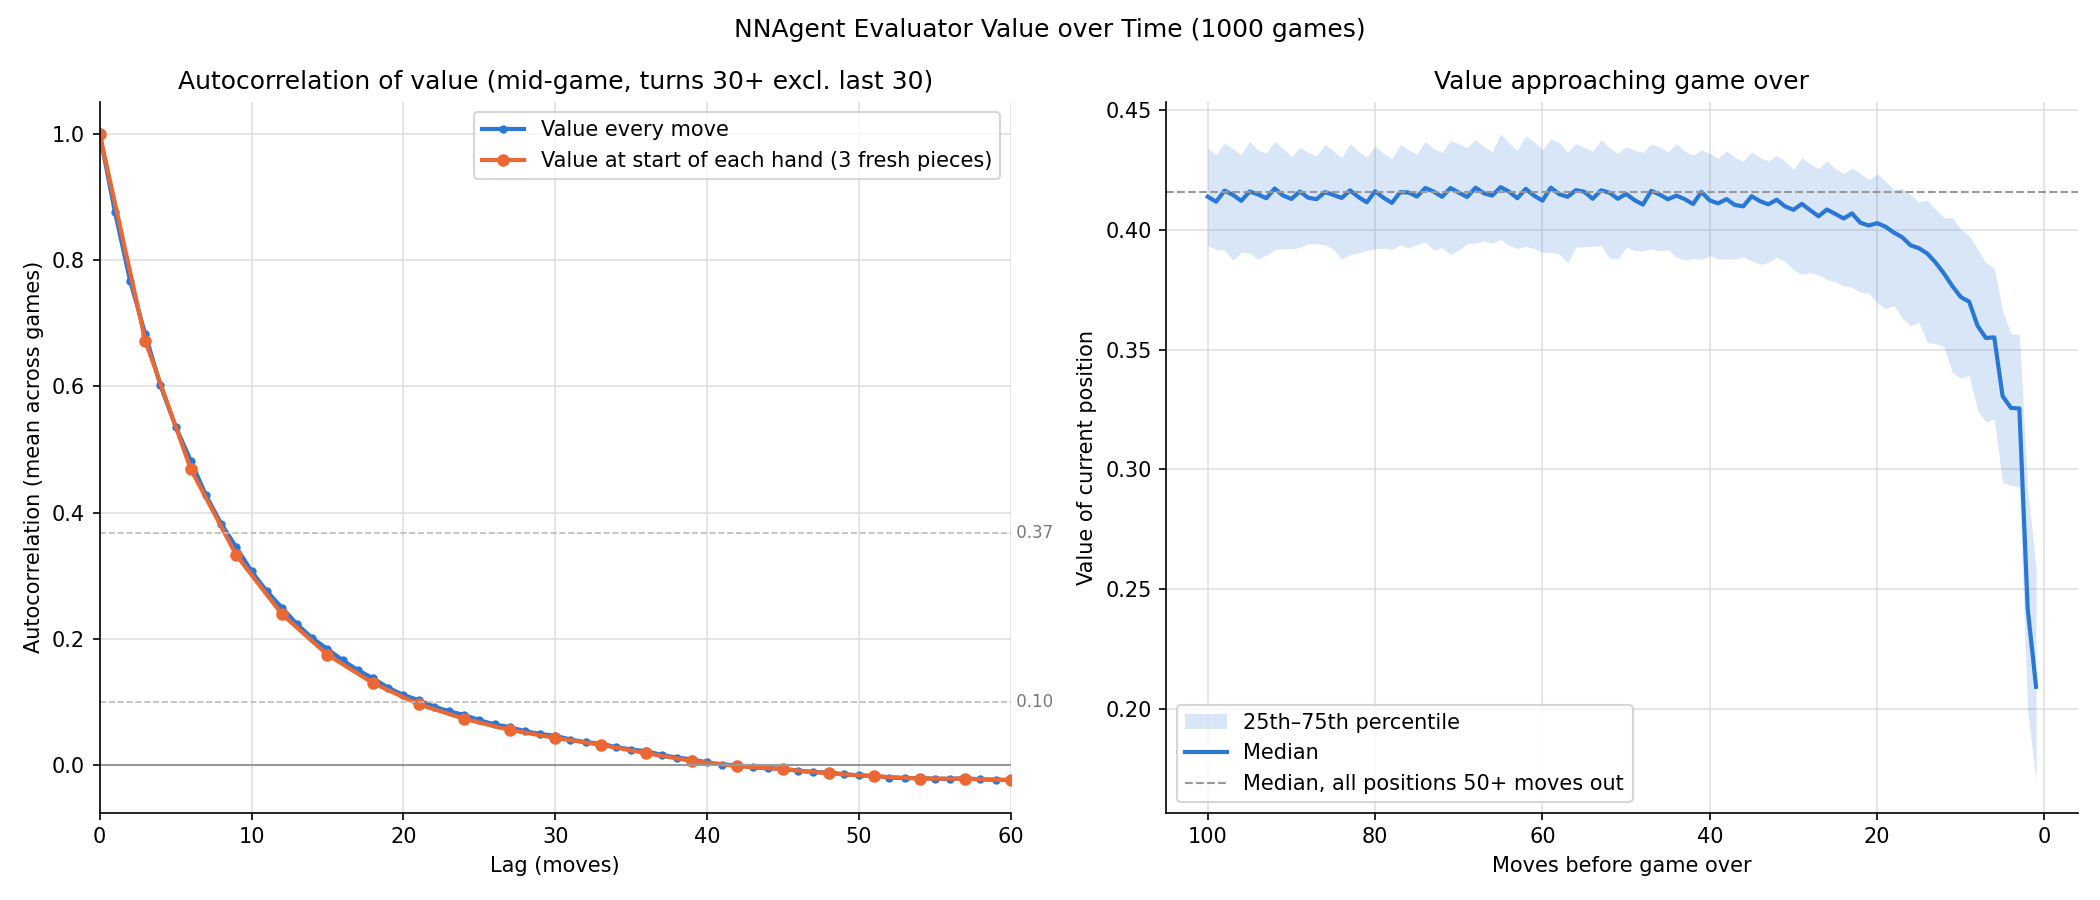
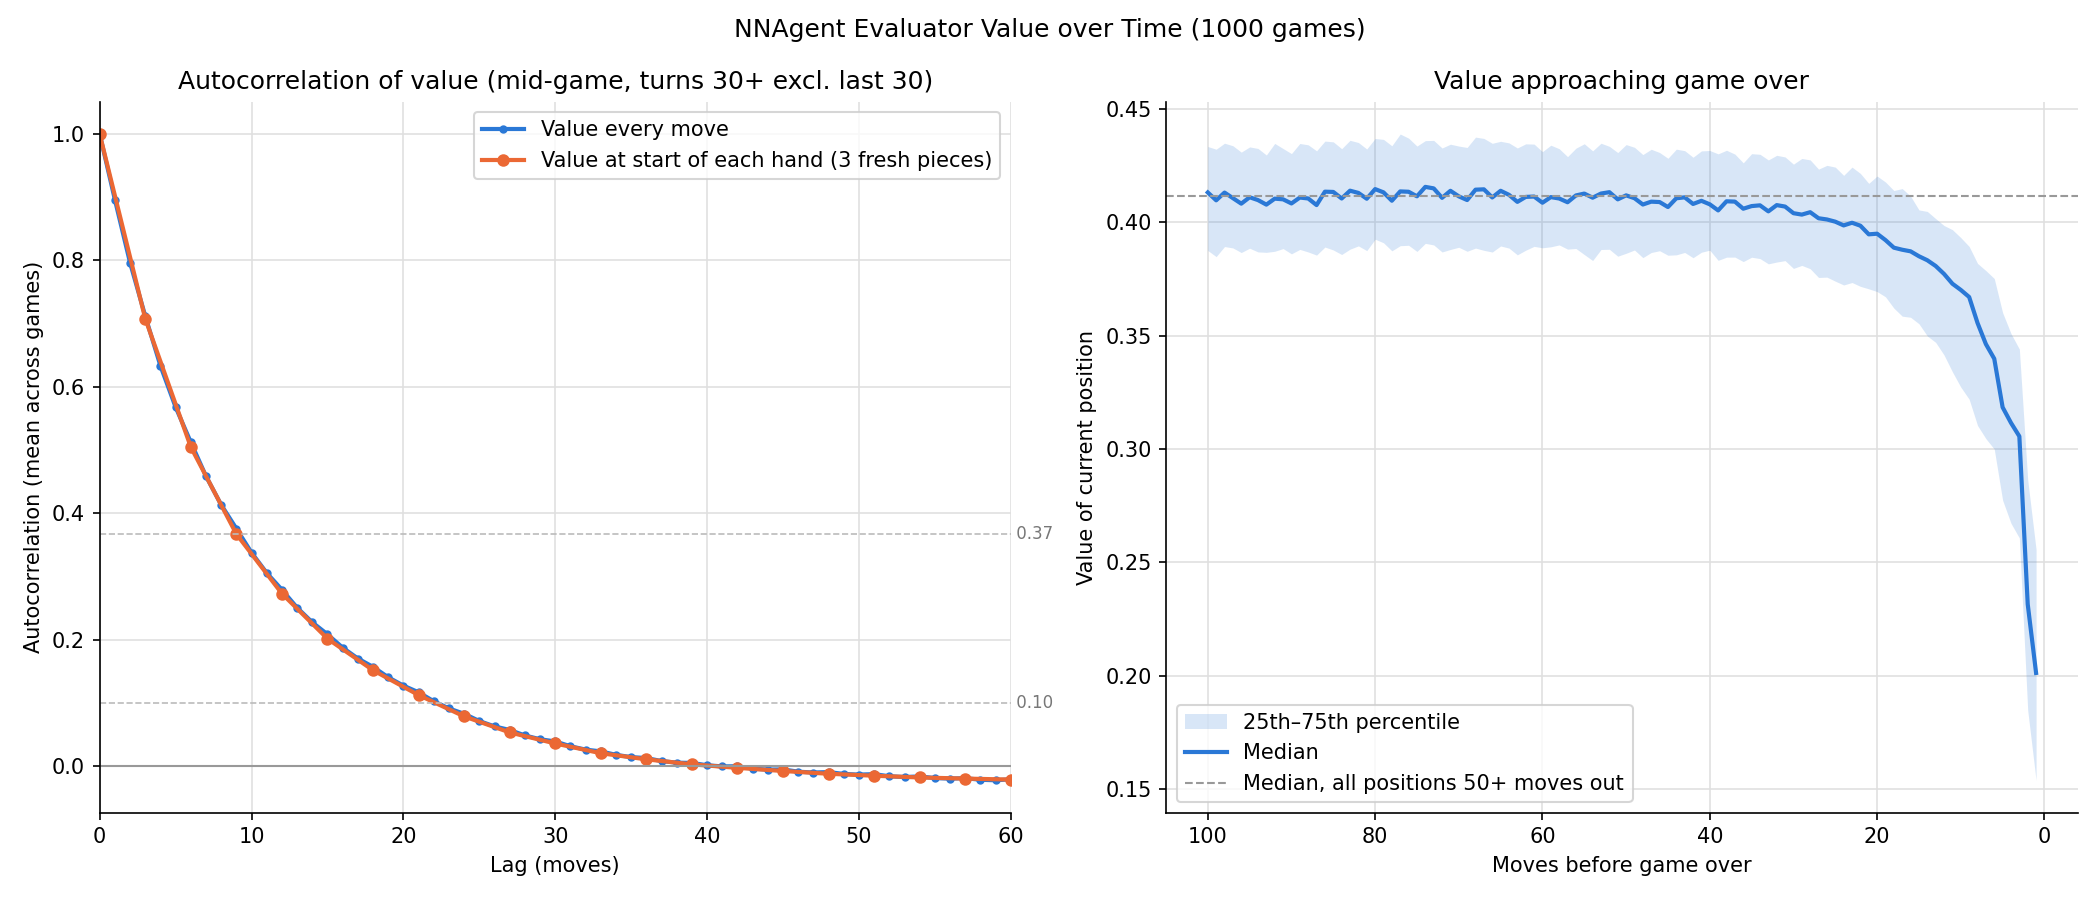
updated results without turn cap and full 10 generations of training

diff --git a/content/posts/tenten.md b/content/posts/tenten.md
@@ -72,8 +72,7 @@ I implemented a 1010!-style block puzzle in Python. The rules are:
 - It's game over when none of the pieces left in your hand fit anywhere.
 
 For scoring I've used **turns survived**, i.e. the number of pieces placed. The real game awards points for line
-clears, but survival is what actually matters and it keeps the analysis simple. The agent gets good enough that
-games are capped at 2000 turns, so it can't play forever.
+clears, but survival is what actually matters and it keeps the analysis simple.
 
 The 3-piece hand turns out to be quite important. It means every game runs in exact 3-move cycles, and you'll see
 that rhythm show up all over the results.
@@ -92,7 +91,7 @@ parameters.
 
 For training, a hand-written heuristic agent (which likes clearing lines and dislikes leaving holes) played the first
 batch of games. The network learned from those, overtook the heuristic after a single round, and from then on learned
-from its own games (self-play). The whole thing took ~2 hours on a laptop.
+from its own games (self-play). The whole thing took ~4 hours on a laptop.
 
 ### Unity - Python pipeline
 
@@ -163,7 +162,7 @@ system in a production build. This is an unofficial recreation made for research
   height="2000"
 >}}
 
-All the results below come from 1000 games played by the agent, 649,667 moves in total.
+All the results below come from 1000 games played by the agent, 911,503 moves in total.
 
 ### Agent training
 
@@ -171,19 +170,18 @@ Here's how the trained agent compares with the heuristic and with random play:
 
 | Agent | Games | Mean turns survived | Median | Best |
 |---|---|---|---|---|
-| Random | 500 | 19 | 19 | 44 |
-| Heuristic | 500 | 279 | 218 | 1244 |
-| **Neural network** | 1000 | **650** | **511** | **2000** (the cap) |
+| Random | 500 | 18.5 | 17 | 38 |
+| Heuristic | 500 | 283 | 209 | 1487 |
+| **Neural network** | 1000 | **912** | **634** | **6035** |
 
-So the network survives ~2.3× longer than the heuristic and ~34× longer than random play. That's pretty good for a
-network this small with no look-ahead. 36 of its 1000 games hit the 2000-turn cap, so if anything these numbers
-undersell it a little.
+So the network survives ~3.2× longer than the heuristic and ~49× longer than random play. That's pretty good for a
+network this small with no look-ahead.
 
 {{< lightbox src="/images/tenten/score_distribution.png" alt="Histogram of turns survived over 1000 games" >}}
 
 The spread of scores is interesting in its own right. It's heavily skewed: most games end within a few hundred
-turns, but there's a long tail running all the way out to the cap. The best fit is a Weibull distribution with a
-shape close to 1 (k = 1.15), which means an almost **constant risk of dying on every move**, however long the game
+turns, but there's a long tail running past 3000. The best fit, by a clear margin, is a Weibull distribution with a
+shape close to 1 (k = 1.10), which means an almost **constant risk of dying on every move**, however long the game
 has lasted. Every new hand is a fresh roll of the dice, another chance to be dealt something that doesn't fit. Keep
 that in mind, luck comes back later.
 
@@ -197,8 +195,8 @@ bands cover the middle 50%.
 
 A few things stand out:
 
-- **There's a lot of choice, but it can be narrowed down.** A typical board allows ~50 legal moves (5.7 bits), but the
-  agent only treats ~20 of them as serious candidates (4.35 bits). That feels like a good place for a puzzle game to
+- **There's a lot of choice, but it can be narrowed down.** A typical board allows ~53 legal moves (5.7 bits), but the
+  agent only treats ~22 of them as serious candidates (4.5 bits). That feels like a good place for a puzzle game to
   sit. It's far from obvious, but it's not an overwhelming Go-style wall of options either. And
   it's not the case that every move is as good as any other.
 - **It's remarkably flat.** After the opening (the empty board allows loads of moves), both entropies settle within
@@ -214,7 +212,7 @@ hand of 3 shaded:
 The legal moves (blue) follow a very regular sawtooth: the most freedom on the first piece of each hand, the least on
 the last. The agent (orange) is more interesting. There are one-off spikes down to ~0 bits where one move is clearly
 best (probably a line clear on offer), and longer troughs lasting several hands when the board gets tight, e.g. game
-308 around turns 35–58 and game 844 around turns 38–60.
+180 around turns 35–62 and game 814 around turns 33–53.
 
 {{< lightbox src="/images/tenten/action_entropy_hand_cycle.png" alt="Entropy by position in the 3-piece hand" >}}
 
@@ -222,8 +220,8 @@ Splitting this up by position in the hand makes the rhythm clear:
 
 | | 1st piece (3 in hand) | 2nd piece (2 in hand) | 3rd piece (1 in hand) |
 |---|---|---|---|
-| Legal moves | 6.44 bits | 5.93 bits | 4.91 bits |
-| Agent | 4.74 bits | 5.02 bits | 4.24 bits |
+| Legal moves | 6.52 bits | 6.00 bits | 4.95 bits |
+| Agent | 5.06 bits | 5.21 bits | 4.31 bits |
 
 The board's freedom pulses strongly with the hand, but the agent's decisions only weakly do. Having 3 pieces gives
 you more placements, but it doesn't make the decision harder, and the 2nd piece is actually the hardest call. My guess (untested) is that with 3 pieces the playing order
@@ -234,7 +232,7 @@ matters a lot, e.g. setting up a line clear, which makes one move stand out.
 {{< lightbox src="/images/tenten/value_autocorr.png" alt="Autocorrelation of the network's value, and value in the last 100 moves" >}}
 
 The left panel is the autocorrelation of the network's value. It drops below 1/e (a common "it's mostly forgotten"
-threshold) after **9 moves**, and is essentially gone by **~22 moves**. In other words, knowing a position is good or
+threshold) after **10 moves**, and is essentially gone by **~23 moves**. In other words, knowing a position is good or
 bad right now tells you very little about how things will look 6 hands later.
 
 The right panel shows the median value in the run-up to game over. It's flat until ~20–30 moves before the end and
@@ -246,14 +244,14 @@ Now for my favourite chart:
 {{< lightbox src="/images/tenten/value_recovery.png" alt="Chance of recovering from a bad position, and outcomes of dips" >}}
 
 On the left is the chance that a position gets back to a typical value before game over, plotted against how bad
-it is right now. On the right, for all 9351 dips across the 1000 games, is the share that have recovered (blue) or hit
+it is right now. On the right, for all 11,806 dips across the 1000 games, is the share that have recovered (blue) or hit
 game over (orange) as the moves go by.
 
-- **90% of dips recover**, with a median of 11 moves.
-- **10% end in game over**, also with a median of 11 moves.
-- Almost every dip is settled one way or the other within ~30 moves.
+- **92% of dips recover**, with a median of 12 moves.
+- **8% end in game over**, also with a median of 12 moves.
+- Almost every dip is settled one way or the other within ~35 moves.
 - **There's no point of no return.** The chance of recovery falls smoothly as the position gets worse, and even the
-  worst 1% of positions recover 58% of the time.
+  worst 1% of positions recover 64% of the time.
 
 So you can usually get out of a bad position quickly, unless you can't, and then it's over just as fast.
 
@@ -264,16 +262,15 @@ typical value (dashed) and the dip threshold (dotted):
 
 The endings come in roughly three flavours:
 
-- **A steady slide** over the last ~20–30 moves (games 309, 632 and 816).
-- **Sudden death.** Game 19 climbs back from a long dip to above typical ~25 moves from the end, then crashes in the
-  last ~5 moves. Games 503 and 173 sit near typical until the last few moves.
-- **Hovering around or below the threshold** for the last 20–30 moves before finally going under (games 269
-  and 844).
+- **A steady slide** over the last ~20–30 moves (games 18 and 845), or a faster one over the last ~10 (game 628).
+- **Sudden death.** Game 814 sits near the dip threshold until the last 2 moves, then drops. Game 309 falls off a
+  cliff in the last 2 moves, and game 271 in the last ~5.
+- **Barely any warning at all.** Games 76 and 180 are only around the dip threshold when they die.
 
 ### What do these metrics tell us about 1010!?
 
 On **complexity of decision-making**, 1010! sits in a sweet spot. There are always plenty of legal moves, but the agent can narrow them down
-to a manageable shortlist of ~20. That stays consistent for the whole game, until the final crunch.
+to a manageable shortlist of ~22. That stays consistent for the whole game, until the final crunch.
 
 On **inevitability of outcome**, 1010! is very much *not* inevitable, and I think that's a big part of why it works.
 Being halfway through a game tells you almost nothing about how it'll end. A bad position is usually recoverable,
@@ -326,8 +323,8 @@ post, if you want to dig deeper:
   - small (3-cell) and large (5-cell) L shapes, 4 rotations each.
 - **Clearing:** several rows and columns can clear at once.
 - **Reward:** +1 per move survived. Points for line clears exist in the code but are switched off.
-- **Turn limit:** every simulated game is stopped at 2000 turns. A stopped game is treated as *censored* (it
-  survived at least that long), not as a game over.
+- **Turn limit (training only):** while generating training data, games are stopped at 2000 turns so a strong
+  agent can't play forever. The results and the comparison table have no limit: every game is played to game over.
 - **Action space:** 3 pieces × 14 × 14 anchor positions = 588 possible actions, most of which are illegal at any
   given moment. The anchor is the top-left of the piece's 5×5 bounding box, from −4 to 9 on each axis.
 
@@ -368,28 +365,29 @@ score for the best move available there.
 
 - **Data generation:** each generation plays 1000 games with a "teacher" agent, which makes a random move 50% of the
   time for variety. Every after-state is recorded with its discounted return, computed backwards from game over (+1
-  per move, discount 0.98). The targets are scaled by the largest return seen. In games stopped at the 2000-turn
-  limit, the last 200 positions are dropped, because their returns are cut short.
+  per move, discount 0.98). The targets are scaled by the largest return seen. Games are stopped at 2000 turns,
+  and in a stopped game the last 200 positions are dropped, because their returns are cut short.
 - **Augmentation:** each position is also added in all 8 rotations and reflections. The board and the pieces are
   transformed together, so the pieces still fit.
 - **Optimisation:** mean squared error, Adam (learning rate 0.01, weight decay 1e-4), batch size 8000, 20 epochs per
   generation. The learning rate is halved when validation loss stalls (patience 3), with an 80/20 train/validation
   split. The best validation checkpoint within each generation is kept.
 - **Curriculum:** the heuristic is the teacher at first. Once the network out-survives the heuristic by 5% (over 50
-  games each), it switches to self-play. 10 generations were planned.
+  games each), it switches to self-play. 10 generations in total.
 - **How it went:** before training the network survived 23 turns, against the heuristic's 245. After generation 1
-  (heuristic data only) it survived 746, beat the heuristic and switched to self-play. Self-play generations took
-  ~35 minutes each, because the games are now long, so I stopped the run after ~2 hours, partway through generation
-  6. The model used here is the best checkpoint from generation 6 (validation loss 0.0309), all on an Apple Silicon
-  GPU.
+  (heuristic data only) it survived 746, beat the heuristic and switched to self-play. Self-play generations take
+  ~35 minutes each, because the games are long. The run was done in two parts: the first stopped partway through
+  generation 6, and the second resumed from the best generation-6 checkpoint for the remaining 4 generations. That's
+  ~4 hours in all on an Apple Silicon GPU. The final model is the best checkpoint of the last generation (validation
+  loss 0.0268). Survival kept improving, from ~650 average turns at generation 6 to 912 at generation 9.
 
 ### E. Metric details
 
 - **Temperature.** All agent-entropy charts use $T = 0.01$. The network's scores are in [0, 1] and the gap between the
-  best and the median move is only ~0.01–0.07, so at $T = 1$ every move would look equally likely. $T$ is a free
+  best and the median move is only ~0.01–0.06, so at $T = 1$ every move would look equally likely. $T$ is a free
   parameter. The patterns hold across temperatures, but the absolute numbers depend on it.
 - **Normalised entropy:** $H / \log_2 N$, from 0 to 1. This is the agent's decisiveness *relative to* how many options
-  it has (the bottom row of the entropy chart). It sits at ~0.83–0.85 for most of the game and dips to ~0.63 at the
+  it has (the bottom row of the entropy chart). It sits at ~0.85 for most of the game and dips to ~0.63 at the
   end.
 - **Mid-game:** turn 30 onwards, excluding the last 30 moves. Used for the steady-state analyses, because entropy and
   value are still settling after the empty board early on, and collapse at the end.
@@ -397,12 +395,10 @@ score for the best move available there.
   differences from its own mid-game average, averaged across games (only games long enough for the lags shown).
 - **Hand cycle removed:** before correlating, subtract each game's average for each position in the hand (1st, 2nd,
   3rd piece). This leaves only structure slower than the 3-move rhythm.
-- **Dips:** the typical value is the median mid-game value, 0.413. A dip starts when the value first falls into the
-  bottom 10% of mid-game values (below 0.354), and a new dip can only start after the previous one has recovered.
-  944 of the 964 games that ended (the rest hit the turn limit) did so in a dip that never recovered. The other ~2%
-  died without ever reaching the bottom 10%, a sudden death from a bad deal.
-- **Capped games:** anything measured "before game over" only uses the 964 games that ended. Positions in capped
-  games that hadn't recovered by the limit have an unknown outcome and are left out of the recovery analysis.
+- **Dips:** the typical value is the median mid-game value, 0.410. A dip starts when the value first falls into the
+  bottom 10% of mid-game values (below 0.357), and a new dip can only start after the previous one has recovered.
+  978 of the 1000 games ended in a dip that never recovered. The other ~2% died without ever reaching the bottom
+  10%, a sudden death from a bad deal.
 
 ### F. Extra charts
 
@@ -421,9 +417,11 @@ partly move-to-move, with a slower component driven by how tight the board is.
 
 {{< lightbox src="/images/tenten/value_traces.png" alt="Network value over the first 100 moves of 10 games" >}}
 
-The value starts at ~0.53 on the empty board and settles within ~30 turns. Game 308 slides below the dip threshold
-from turn ~35 and bottoms out at ~0.16 around turn 51, the same stretch as its entropy trough, then climbs back above
-typical by turn ~60. Game 507 drops sharply at turn 36 and recovers within ~6 moves.
+The value starts at ~0.53 on the empty board and settles within ~30 turns. Game 76 has three deep dips in its first
+80 moves, each matching an entropy trough, recovers from all of them and goes on to last 3791 turns. Game 180 drops
+sharply at turn 36 and stays below the dip threshold until ~turn 60, the same stretch as its entropy trough, then
+recovers. Game 43 has a short, sharp dip around turn 22, when it was down to almost a single legal move, and is back
+around typical within ~5 moves.
 
 ### G. Limitations and next steps
 
@@ -432,10 +430,11 @@ typical by turn ~60. Game 507 drops sharply at turn 36 and recovers within ~6 mo
   play. So "how inevitable the outcome is" is measured *through* the network. A more direct test is to replay the
   same position many times with different deals and measure how widely the outcomes spread. That's a good experiment
   for the follow-up post.
-- **Training was cut short.** The model is the best checkpoint from generation 6 of a planned 10, so more self-play
-  might make it a little stronger.
-- **The turn limit.** 3.6% of games were stopped at 2000 turns. The mean and median count them as 2000, so they
-  slightly understate the agent.
+- **Training games are capped, the results aren't.** The training data stops games at 2000 turns, but ~10% of the
+  games analysed here go past 2000 (the longest lasted 6035). Those late positions look like ordinary mid-game
+  positions, so this probably doesn't matter much.
+- **Train for longer.** The agent was still improving between generations 6 and 9, so more self-play might make it
+  stronger still.
 
 ---
 
